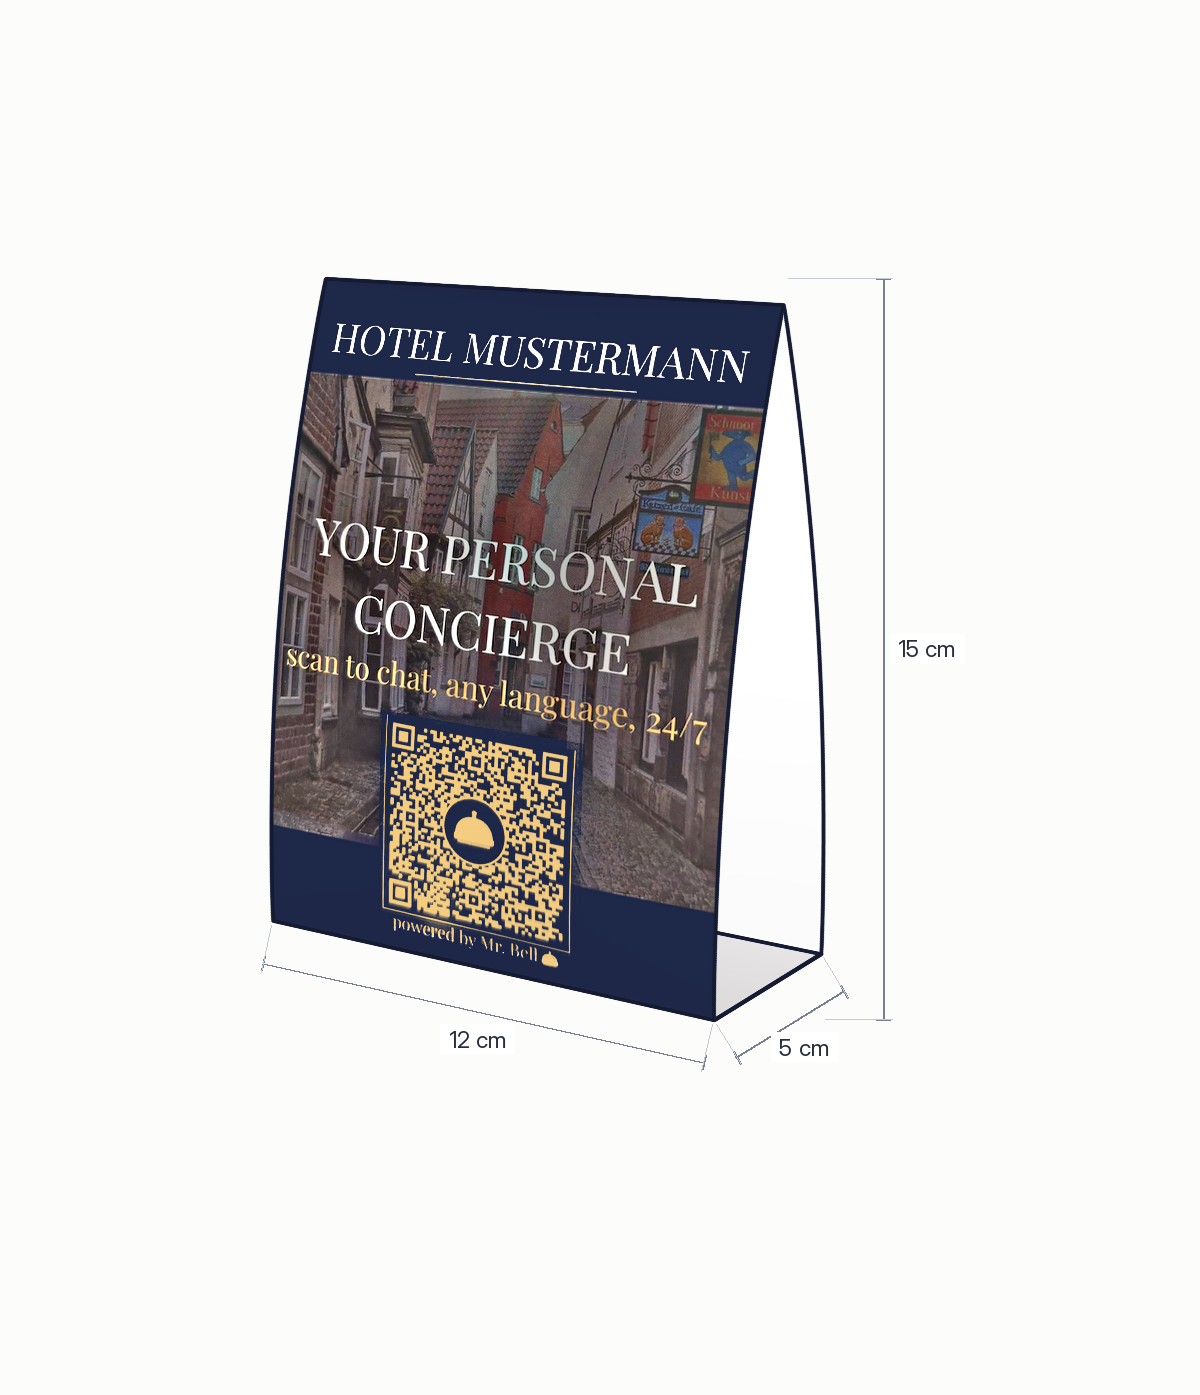
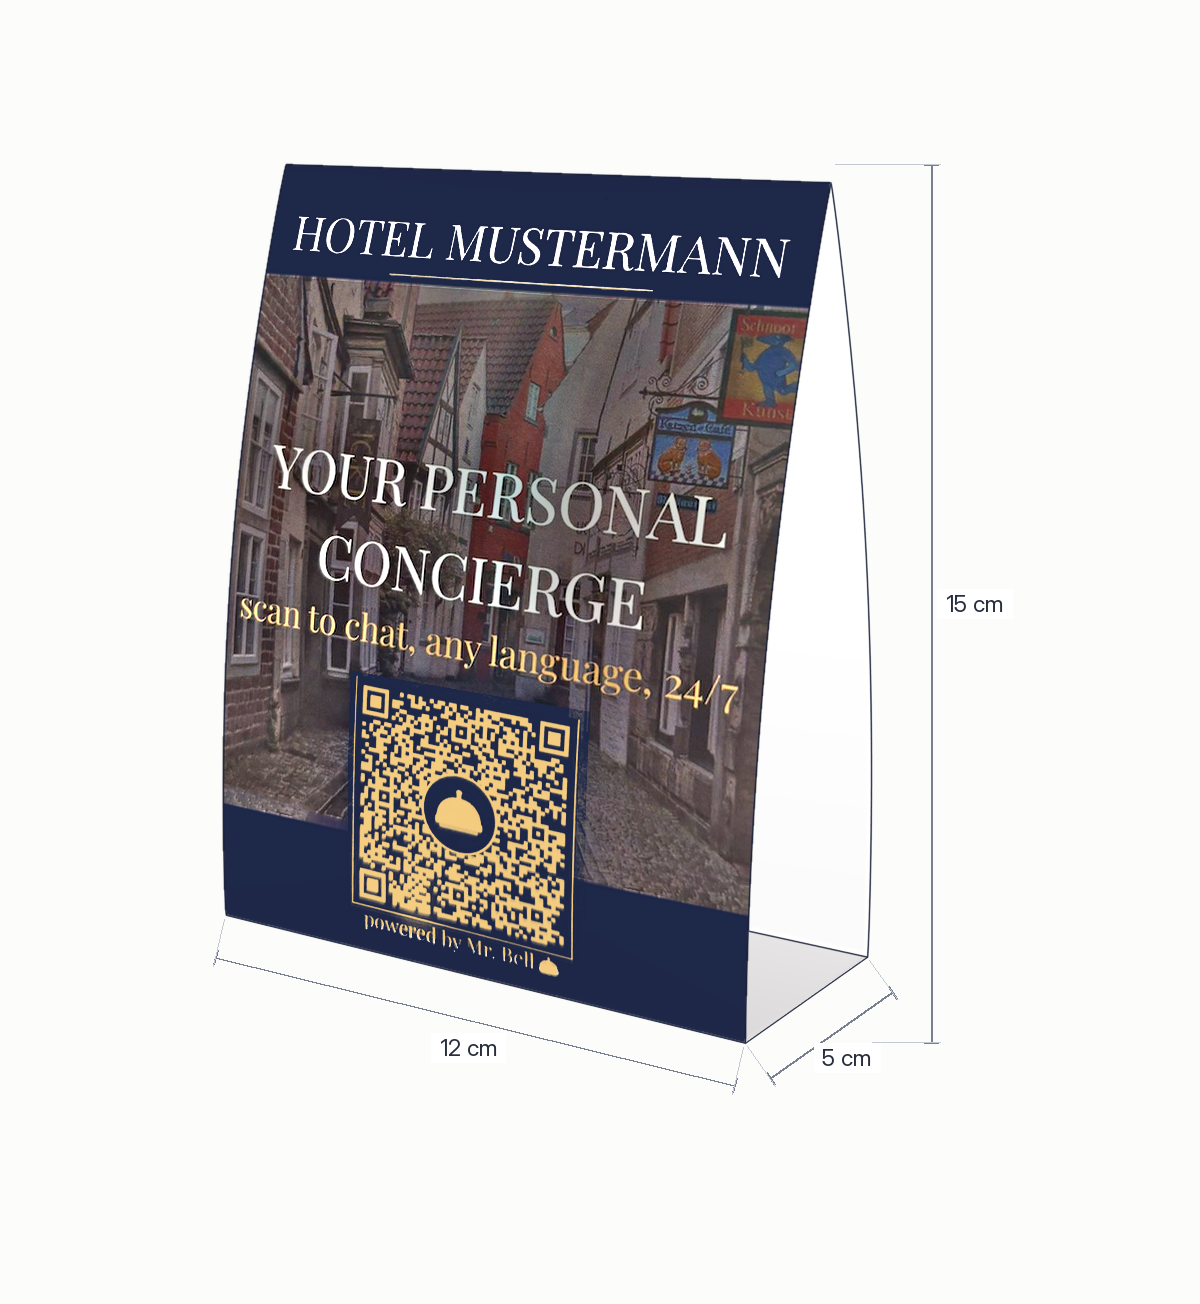
Partnerseite: Kopfleiste mit Ueberblick-Menue, dritter Weg per E-Mail
Bild:
- Kontur jetzt in doppelter Aufloesung gezeichnet und heruntergerechnet,
  dadurch eine echte Haarlinie statt einer 1-px-Kante, die beim Skalieren
  im Browser wieder fett wirkte.

Kopfleiste:
- faehrt ab 260 px Scrolltiefe ein, zeigt links Mr. Bell und den Hausnamen,
  rechts das Menue "Ueberblick" mit den sechs Abschnitten als Sprungmarken
- Menue schliesst bei Klick daneben, mit Escape und nach der Auswahl;
  aria-expanded gesetzt, Burger wird zum Kreuz
- scroll-margin-top auf den Abschnitten, damit die Leiste die Ueberschrift
  nicht verdeckt; scroll-behavior respektiert prefers-reduced-motion

Termin:
- untere Leiste oeffnet nicht mehr direkt Calendly, sondern fuehrt zum
  Termin-Abschnitt, wo Kalender, WhatsApp und E-Mail nebeneinander stehen
- sie blendet sich aus, sobald der Termin-Abschnitt im Bild ist, sonst
  verdeckt sie genau die Schaltflaechen, zu denen sie fuehrt
- neuer Button "Klassisch per E-Mail": mailto mit Betreff aus Hausname und
  Code und vorbereitetem Text

Claude-Session: https://claude.ai/code/session_01Dwkb6LCGZH2Q56yqw1FfwQ

diff --git a/partner/index.html b/partner/index.html
@@ -37,6 +37,49 @@
   .hidden{display:none!important}
 
   /* Aufsteller-Fotos */
+  /* ===== Kopfleiste beim Scrollen + Ueberblick-Menue ===== */
+  html{scroll-behavior:smooth}
+  section[id]{scroll-margin-top:76px}
+  .topbar{position:fixed;inset:0 0 auto 0;z-index:40;
+          background:rgba(252,252,251,.93);backdrop-filter:saturate(150%) blur(8px);
+          border-bottom:1px solid var(--line);
+          transform:translateY(-102%);transition:transform .22s ease}
+  .topbar.show{transform:none}
+  .topbar .in{max-width:80rem;margin:0 auto;padding:9px 48px;
+              display:flex;align-items:center;gap:14px}
+  .tb-name{font-family:var(--sans);font-weight:700;font-size:16px;letter-spacing:-.01em}
+  .tb-haus{font-family:var(--sans);font-size:13px;color:var(--muted);
+           white-space:nowrap;overflow:hidden;text-overflow:ellipsis;max-width:22rem}
+  .tb-sp{margin-left:auto}
+  .menubtn{display:inline-flex;align-items:center;gap:9px;cursor:pointer;
+           font-family:var(--sans);font-size:14px;font-weight:600;color:var(--ink);
+           background:none;border:1px solid var(--line);border-radius:2px;padding:8px 13px}
+  .menubtn:hover{border-color:var(--ink)}
+  .menubtn .bars{display:inline-block;width:15px;height:11px;position:relative}
+  .menubtn .bars i{position:absolute;left:0;right:0;height:1.5px;background:currentColor;
+                   transition:transform .18s ease,opacity .18s ease}
+  .menubtn .bars i:nth-child(1){top:0}
+  .menubtn .bars i:nth-child(2){top:5px}
+  .menubtn .bars i:nth-child(3){top:10px}
+  .menubtn[aria-expanded="true"] .bars i:nth-child(1){transform:translateY(5px) rotate(45deg)}
+  .menubtn[aria-expanded="true"] .bars i:nth-child(2){opacity:0}
+  .menubtn[aria-expanded="true"] .bars i:nth-child(3){transform:translateY(-5px) rotate(-45deg)}
+  .menupanel{position:absolute;right:48px;top:calc(100% + 8px);min-width:16rem;display:none;
+             background:var(--paper);border:1px solid var(--line);padding:7px;
+             box-shadow:0 18px 44px -26px rgba(20,27,51,.5)}
+  .menupanel.open{display:block}
+  .menupanel a{display:block;padding:9px 12px;text-decoration:none;color:var(--ink);
+               font-family:var(--sans);font-size:14px;border-radius:2px}
+  .menupanel a:hover,.menupanel a:focus-visible{background:var(--paper-2)}
+  @media (max-width:640px){
+    .topbar .in{padding:9px 20px}
+    .menupanel{right:20px;left:20px}
+    .tb-haus{display:none}
+  }
+  @media (prefers-reduced-motion:reduce){
+    html{scroll-behavior:auto}
+    .topbar,.menubtn .bars i{transition:none}
+  }
   .shots{margin:30px 0 0;padding:0;max-width:34rem}
   .shots img{width:100%;height:auto;display:block;background:transparent}
   .shots figcaption{margin-top:12px;font-size:13px;line-height:1.5;color:var(--muted)}
@@ -54,6 +97,26 @@
 </style>
 </head>
 <body>
+
+<div class="topbar" id="topbar" hidden>
+  <div class="in">
+    <span class="tb-name">Mr. Bell</span>
+    <span class="tb-haus" id="tbHaus"></span>
+    <span class="tb-sp"></span>
+    <button class="menubtn" type="button" id="menuBtn" aria-expanded="false" aria-controls="menuPanel">
+      <span class="bars" aria-hidden="true"><i></i><i></i><i></i></span>&Uuml;berblick
+    </button>
+    <nav class="menupanel" id="menuPanel" aria-label="&Uuml;berblick">
+      <a href="#concierge">Ihr Concierge</a>
+      <a href="#haus">Ihr Haus in Mr. Bell</a>
+      <a href="#bewertung">Bewertungen am Abreisetag</a>
+      <a href="#aufsteller">Ihre Aufsteller</a>
+      <a href="#datenschutz">Datenschutz</a>
+      <a href="#termin">Termin</a>
+    </nav>
+  </div>
+</div>
+
 <div class="wrap">
 
   <header class="head">
@@ -102,7 +165,7 @@
       </div>
     </section>
 
-    <section>
+    <section id="concierge">
       <div class="label">Ihr Concierge</div>
       <div class="measure stack">
         <h2>Schreiben Sie ihm, was Ihre Gäste fragen würden.</h2>
@@ -116,7 +179,7 @@
       </div>
     </section>
 
-    <section>
+    <section id="haus">
       <div class="label">Ihr Haus in Mr. Bell</div>
       <div class="measure stack">
         <h2 id="hotelName"></h2>
@@ -128,7 +191,7 @@
       </div>
     </section>
 
-    <section>
+    <section id="bewertung">
       <div class="label">Die Bewertungsmechanik am Abreisetag</div>
       <div class="measure wide">
         <h2>So funktioniert es, Schritt für Schritt.</h2>
@@ -155,7 +218,7 @@
       </div>
     </section>
 
-    <section>
+    <section id="aufsteller">
       <div class="label">Ihre Aufsteller</div>
       <div class="measure stack">
         <h2>Für jedes Zimmer einer, auf Ihren Namen gesetzt.</h2>
@@ -167,7 +230,7 @@
 
       <div class="aufsteller">
         <figure class="shots">
-          <img src="/aufsteller-masse.png" width="1200" height="1304"
+          <img src="/aufsteller-masse.png" width="1400" height="1522"
                loading="lazy" decoding="async"
                alt="Aufsteller im Format 15 cm hoch, 12 cm breit, 5 cm tief: Hotelname oben,
                     Stadtmotiv, QR-Code, Hinweis &bdquo;scan to chat, any language, 24/7&ldquo;">
@@ -202,7 +265,7 @@
       in keinem nach Werbung aus. Hat Ihr Haus eigene Farben, drucken wir in Ihren.</p>
 </section>
 
-    <section>
+    <section id="datenschutz">
       <div class="label">Datenschutz</div>
       <div class="measure stack wide">
         <h2>Ihre G&auml;stedaten bleiben Ihre.</h2>
@@ -237,9 +300,12 @@
         <div class="btns">
           <a class="btn" id="calBtn" href="#" target="_blank" rel="noopener">Gespräch vereinbaren</a>
           <a class="btn ghost" id="waBtn" href="#">Lieber kurz über WhatsApp</a>
+          <a class="btn ghost" id="mailBtn" href="#">Klassisch per E-Mail</a>
         </div>
         <p style="margin-top:18px;font-size:15px;color:var(--muted)">
-          Sie sehen meinen Kalender und wählen selbst. Ihr Hotel ist dabei schon eingetragen.</p>
+          Im Kalender wählen Sie selbst, Ihr Hotel ist schon eingetragen. Über WhatsApp
+          oder E-Mail schreiben Sie mir einfach, wann es Ihnen passt — beides landet
+          direkt bei mir, nicht in einem Ticketsystem.</p>
       </div>
     </section>
 
@@ -254,7 +320,7 @@
 
   <div class="sticky" id="sticky" hidden>
     <span class="sticky-t">Mr. Bell für Ihr Hotel</span>
-    <a class="btn" id="calBtn2" href="#" target="_blank" rel="noopener">Gespräch vereinbaren</a>
+    <a class="btn" href="#termin">Termin vereinbaren</a>
   </div>
 
   <footer>
@@ -364,10 +430,15 @@ function links(){
   const haus=REC?REC.hotel:"";
   // Hotel + Code vorbefuellen, damit Ben sofort sieht, wer bucht
   const cal=CAL+"?a1="+encodeURIComponent(haus+" ("+CODE+")")+"&hide_gdpr_banner=1";
-  $("#calBtn").href=cal; $("#calBtn2").href=cal;
+  $("#calBtn").href=cal;
   const txt=`Guten Tag Herr Deschler, hier ist ${haus}. Ich melde mich wegen eines Termins.`;
   $("#waBtn").href=`https://wa.me/${WA_BEN}?text=${encodeURIComponent(txt)}`;
   $("#testBtn").href=`https://wa.me/${WA}?text=${encodeURIComponent("Start "+CODE)}`;
+  const subj=`Mr. Bell — ${haus} (${CODE})`;
+  const body=`Guten Tag Herr Deschler,\n\nich habe Ihren Brief erhalten und melde mich wegen `
+            +`eines Termins.\n\nMir passt es am besten:\n\nViele Grüße\n${haus}`;
+  $("#mailBtn").href=`mailto:${MAIL}?subject=${encodeURIComponent(subj)}`
+                    +`&body=${encodeURIComponent(body)}`;
 }
 function render(r){
   REC=r;
@@ -380,6 +451,7 @@ function render(r){
   // zeigt echte Fotos mit dem Beispielnamen "Hotel Mustermann" - es wird also
   // kein Hausfarben-Versprechen gemacht, das die Seite nicht einloesen kann.
   $("#headRight").textContent=r.hotel;
+  $("#tbHaus").textContent=r.hotel;
   document.title=r.hotel+" — Mr. Bell";
   links();
   try{ localStorage.setItem("mb_zugang", JSON.stringify(
@@ -388,9 +460,47 @@ function render(r){
   $("#content").classList.remove("hidden");
   if(window.mbWrapWords) window.mbWrapWords($("#content"));
   window.scrollTo(0,0);
-  const st=$("#sticky");
-  const onScroll=()=>{ st.hidden = window.scrollY < 320; };
-  window.addEventListener("scroll",onScroll,{passive:true}); onScroll();
+  initChrome();
+}
+
+/* Kopfleiste, Ueberblick-Menue und die untere Terminleiste.
+   Die untere Leiste verschwindet, sobald der Termin-Abschnitt selbst
+   sichtbar ist - sonst deckt sie genau die Schaltflaechen zu, zu denen
+   sie fuehren soll. */
+function initChrome(){
+  const st=$("#sticky"), tb=$("#topbar"), btn=$("#menuBtn"), panel=$("#menuPanel");
+  tb.hidden=false;
+
+  let terminSichtbar=false;
+  const termin=document.getElementById("termin");
+  if(termin && "IntersectionObserver" in window){
+    new IntersectionObserver(function(es){
+      terminSichtbar = es[0].isIntersecting;
+      onScroll();
+    }, {rootMargin:"-30% 0px -20% 0px"}).observe(termin);
+  }
+
+  function onScroll(){
+    const y=window.scrollY;
+    tb.classList.toggle("show", y > 260);
+    st.hidden = (y < 320) || terminSichtbar;
+    if(y <= 260) closeMenu();
+  }
+  window.addEventListener("scroll", onScroll, {passive:true}); onScroll();
+
+  function openMenu(){ panel.classList.add("open"); btn.setAttribute("aria-expanded","true"); }
+  function closeMenu(){ panel.classList.remove("open"); btn.setAttribute("aria-expanded","false"); }
+  btn.addEventListener("click", function(e){
+    e.stopPropagation();
+    panel.classList.contains("open") ? closeMenu() : openMenu();
+  });
+  panel.addEventListener("click", function(e){ if(e.target.tagName==="A") closeMenu(); });
+  document.addEventListener("click", function(e){
+    if(!panel.contains(e.target) && e.target!==btn) closeMenu();
+  });
+  document.addEventListener("keydown", function(e){
+    if(e.key==="Escape"){ closeMenu(); btn.focus(); }
+  });
 }
 
 $("#form").addEventListener("submit",async e=>{
